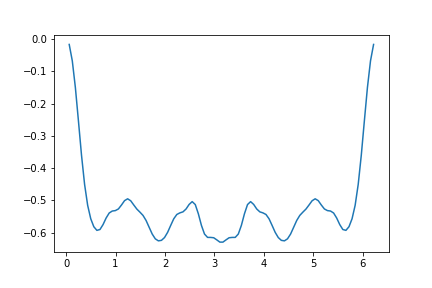
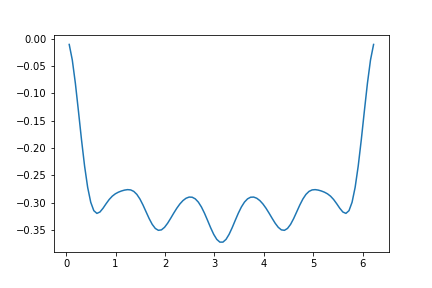
few changes

diff --git a/BdG_on_graph.py b/BdG_on_graph.py
@@ -324,8 +324,8 @@ class BdG():
         for i in range(self.N):
             coord=self.lattice_sample.sites[i]
             
-            exp_a[i]=np.exp(-1j*q_y*coord[0])
-            exp_d[i]=np.exp(1j*q_y*coord[0])
+            exp_a[i]=np.exp(-1j*q_y*coord[1])
+            exp_d[i]=np.exp(1j*q_y*coord[1])
 
             if self.pbc:
                 coord_x= tuple((a + b)%self.size for a, b in zip(coord, (1,0)))
@@ -347,15 +347,27 @@ class BdG():
         
         #prepare fermi weight
         
+        # F_weight_test=np.zeros((2*self.N,2*self.N))
+        # for i in range(2*self.N):
+        #     for j in range(2*self.N):
+        #         F_weight_test[i,j]=(self.F(self.spectra[i])-self.F(self.spectra[j]))/(self.spectra[i]-self.spectra[j]+1j*10**(-6))
+        
         energy_diff= np.tile(self.spectra, (2*self.N,1)) - np.tile(self.spectra, (2*self.N,1)).T+1j*10**(-6)
         fermi_diff= np.tile(self.F(self.spectra), (2*self.N,1)) - np.tile(self.F(self.spectra), (2*self.N,1)).T
         F_weight=fermi_diff/energy_diff
+        
+        # print("F_test", np.max(np.abs(F_weight-F_weight_test)))
+        
+        
 
 
-        uu_x=np.einsum(exp_a, [0], np.conj(u), [0,1], u_x, [0,2], [1,2])
-        vv_x=np.einsum(exp_d, [0], np.conj(u), [0,1], u_x, [0,2], [1,2])
-        A=uu_x-np.conj(np.einsum(uu_x,[2,1]))
-        D=vv_x-np.conj(np.einsum(vv_x,[2,1]))
+        uu_x=np.einsum(exp_a, [0], np.conj(u_x), [0,1], u, [0,2], [1,2])
+        vv_x=np.einsum(exp_d, [0], np.conj(v_x), [0,1], v, [0,2], [1,2])
+        uu_x_t=np.einsum(exp_a, [0], np.conj(u), [0,1], u_x, [0,2], [1,2])
+        vv_x_t=np.einsum(exp_d, [0], np.conj(v), [0,1], v_x, [0,2], [1,2])
+        
+        A=uu_x-uu_x_t
+        D=vv_x-vv_x_t
         
         Lambda=1/self.N*np.einsum(A, [0,1], np.conj(A)+D, [0,1], F_weight, [0,1])
         
@@ -567,6 +579,10 @@ def main():
     # print("kinenergy time", time2-time1)
     #print("spectra", BdG_sample.spectra)
     # print("kinetic energy time", time2-time1)
+    
+    # q_y=2*np.pi/100
+    # Lambda=BdG_sample.twopoint_correlator(q_y)
+    # print("lambda", Lambda)
     
     N_qy=100
     q_y=np.linspace(2*np.pi/N_qy, 2*np.pi*(1-1/N_qy), N_qy)
